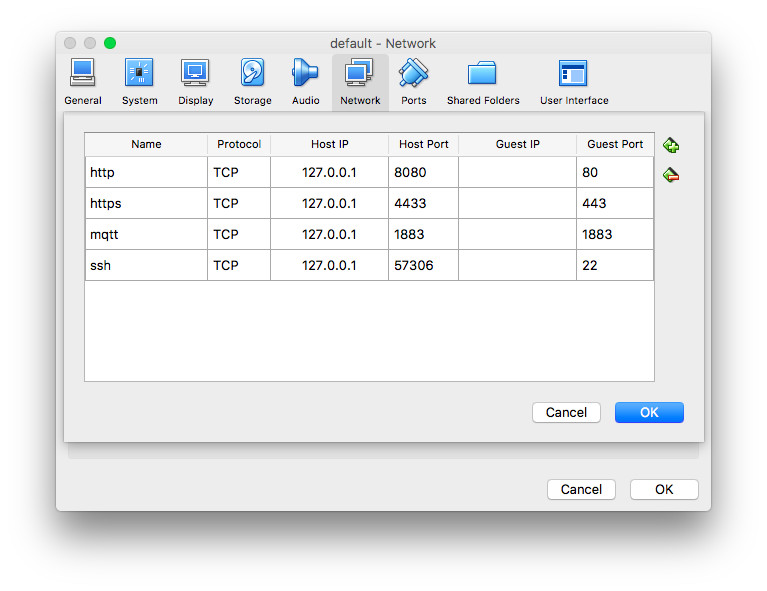
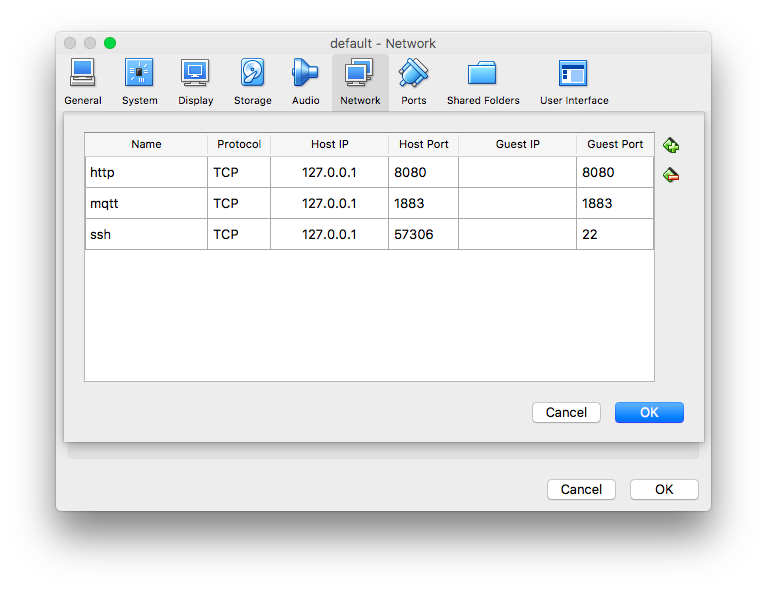
Update instructions: dashboard is now accessible over HTTP port 8080

diff --git a/doc/macos.md b/doc/macos.md
@@ -47,9 +47,7 @@ Add USB config for FT260 of default virtual machine
 
 ![usb](resources/vbox-usb-mac.png)
 
-Add Network Port Forwarding in Adapter 1 (NAT) of **default** virtual machine for http, https, mqtt
-
-**Important!** Due to system limitations, you have to map all ports under 1024 (80, 443) to upper port space (80 to 8080, 443 to 4433).
+Add Network Port Forwarding in Adapter 1 (NAT) of **default** virtual machine for HTTP and MQTT.
 
 ![tcp](resources/vbox-tcp-mac.png)
 
@@ -71,7 +69,7 @@ BigClown uses Docker container technology for seamless software delivery.
 
 Pull Docker image from Docker Hub and run the container in one command:
 
-`docker run -d -p 8080:80 -p 4443:443 -p 1883:1883 --privileged -v /dev:/dev -v $HOME/hub:/var/hub -h hub-container --name hub clown/hub`
+`docker run -d -p 8080:8080 -p 1883:1883 --privileged -v /dev:/dev -v $HOME/hub:/var/hub -h hub-container --name hub clown/hub`
 
 You can stop container by: 
 
@@ -85,12 +83,9 @@ And start it again by:
 
 Navigate to URL:
 
-<https://hub.local:4433/app> or <https://localhost:4433/app>
+<https://hub.local:8080/dashboard> or <https://localhost:8080/dashboard>
 
-Be aware, that self-signed autogenerated certificate is used at web server side, so you have to accept it in web browser (otherwise browser do not process content from web server over TLS).
-
-Username: **clown**  
-Password: **bigclown**  
+Be aware that the connection is not encrypted, so it’s not safe to access it over public internet.
 
 ## MQTT playground
 

diff --git a/doc/windows.md b/doc/windows.md
@@ -45,7 +45,7 @@ Add USB config for FT260 of default virtual machine
 
 ![usb](resources/vbox-usb-win.png)
 
-Add Network Port Forwarding in Adapter 1 (NAT) of **default** virtual machine for http, https, mqtt
+Add Network Port Forwarding in Adapter 1 (NAT) of **default** virtual machine for HTTP and MQTT.
 
 ![tcp](resources/vbox-tcp-win.png)
 
@@ -67,7 +67,7 @@ BigClown uses Docker container technology for seamless software delivery.
 
 Pull Docker image from Docker Hub and run the container in one command:
 
-`docker run -d -p 80:80 -p 443:443 -p 1883:1883 --privileged -v /dev:/dev -v $HOME/hub:/var/hub -h hub-container --name hub clown/hub`
+`docker run -d -p 8080:8080 -p 1883:1883 --privileged -v /dev:/dev -v $HOME/hub:/var/hub -h hub-container --name hub clown/hub`
 
 You can stop container by: 
 
@@ -81,12 +81,9 @@ And start it again by:
 
 Navigate to URL:
 
-<https://hub.local/app> or <https://localhost/app>
+<https://hub.local:8080/dashboard> or <https://localhost:8080/dashboard>
 
-Be aware, that self-signed autogenerated certificate is used at web server side, so you have to accept it in web browser (otherwise browser do not process content from web server over TLS).
-
-Username: **clown**  
-Password: **bigclown**  
+Be aware that the connection is not encrypted, so it’s not safe to access it over public internet.
 
 ## MQTT playground
 

diff --git a/doc/ubuntu.md b/doc/ubuntu.md
@@ -25,7 +25,7 @@ BigClown uses Docker container technology for seamless software delivery.
 
 Pull Docker image from Docker Hub and run the container in one command:
 
-`docker run -d -p 80:80 -p 443:443 -p 1883:1883 --privileged -v /dev:/dev -v $HOME/hub:/var/hub -h hub-container --name hub clown/hub`
+`docker run -d -p 8080:8080 -p 1883:1883 --privileged -v /dev:/dev -v $HOME/hub:/var/hub -h hub-container --name hub clown/hub`
 
 You can stop container by: 
 
@@ -39,12 +39,9 @@ And start it again by:
 
 Navigate to URL:
 
-<https://hub.local/app> or <https://localhost/app>
+<https://hub.local:8080/dashboard> or <https://localhost:8080/dashboard>
 
-Be aware, that self-signed autogenerated certificate is used at web server side, so you have to accept it in web browser (otherwise browser do not process content from web server over TLS).
-
-Username: **clown**  
-Password: **bigclown**  
+Be aware that the connection is not encrypted, so it’s not safe to access it over public internet.
 
 ## MQTT playground
 

diff --git a/doc/raspberry-pi.md b/doc/raspberry-pi.md
@@ -155,7 +155,7 @@ BigClown uses Docker container technology for seamless software delivery.
 
 Pull Docker image from Docker Hub and run the container in one command:
 
-`docker run -d -p 80:80 -p 443:443 -p 1883:1883 --privileged
+`docker run -d -p 8080:8080 -p 1883:1883 --privileged
  -v /dev:/dev -v /var/hub:/var/hub -h hub-container --name hub
  clown/rpi-hub`
 
@@ -184,12 +184,9 @@ Note: Caddy 0.9.3 has broken WebSockets proxy, we recommend to stay on 0.9.1 for
 
 Navigate to URL:
 
-<https://hub.local/app> or <https://raspberry-ip-address/app>
+<https://hub.local:8080/dashboard> or <https://localhost:8080/dashboard>
 
-Be aware, that self-signed autogenerated certificate is used at web server side, so you have to accept it in web browser (otherwise browser do not process content from web server over TLS).
-
-Username: **clown**  
-Password: **bigclown**  
+Be aware that the connection is not encrypted, so it’s not safe to access it over public internet.
 
 ## MQTT playground
 
